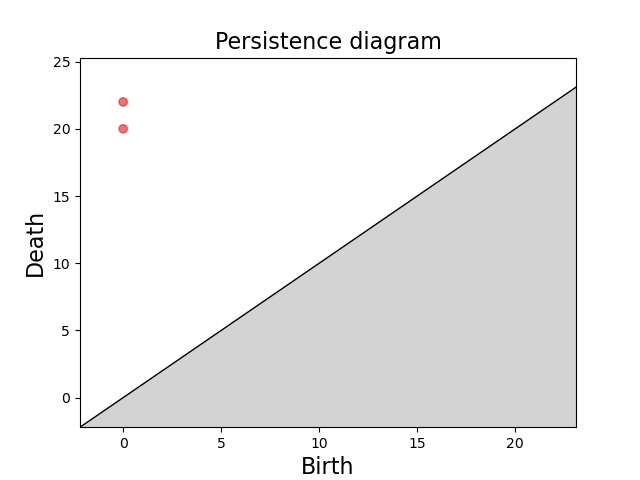
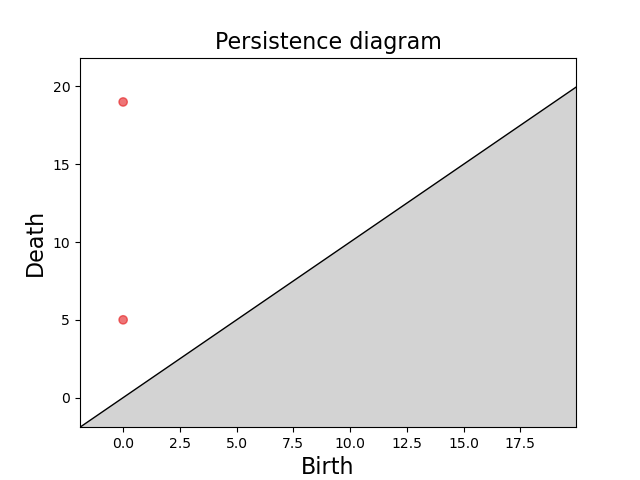
updates

diff --git a/src/filtration.py b/src/filtration.py
@@ -6,10 +6,11 @@ import numpy as np
 import matplotlib.pyplot as plt
 
 
-class LevelFiltration:
+class Filtration:
     """Class for Sub Level set filtration for 1-d Time Series"""
     def __init__(self, data):
-        """Initialization
+        """
+        Initialization
 
         Parameters
         ----------
@@ -30,10 +31,12 @@ class LevelFiltration:
                 [idx, idx+1], # 1-simplex
                 filtration=value
             )
+        self.data = data
         self.persistence = None
 
     def compute_persistence(self):
-        """Computes persistence
+        """
+        Computes persistence
         
         Parameters
         ----------
@@ -47,11 +50,16 @@ class LevelFiltration:
         """
         persistence = self.simplex.persistence()
         self.persistence = np.asarray(
-            [[ele[1][0], ele[1][1]] for ele in persistence if ele[1][1] < np.inf]
+            [
+                [ele[1][0], ele[1][1]] 
+                if ele[1][1] < np.inf else [ele[1][0], max(self.data)]
+                for ele in persistence 
+                ]
         )
 
     def _plot_persistence_diagram(self, path="figures/pd.png"):
-        """Plots persistence diagram
+        """
+        Plots persistence diagram
         
         Parameters
         ----------
@@ -60,6 +68,7 @@ class LevelFiltration:
         """
         gudhi.plot_persistence_diagram(self.persistence)
         plt.savefig(path)
+
 
     def _plot_persistence_barcode(self, path="figures/pb.png"):
         """Plots persistence barcode
